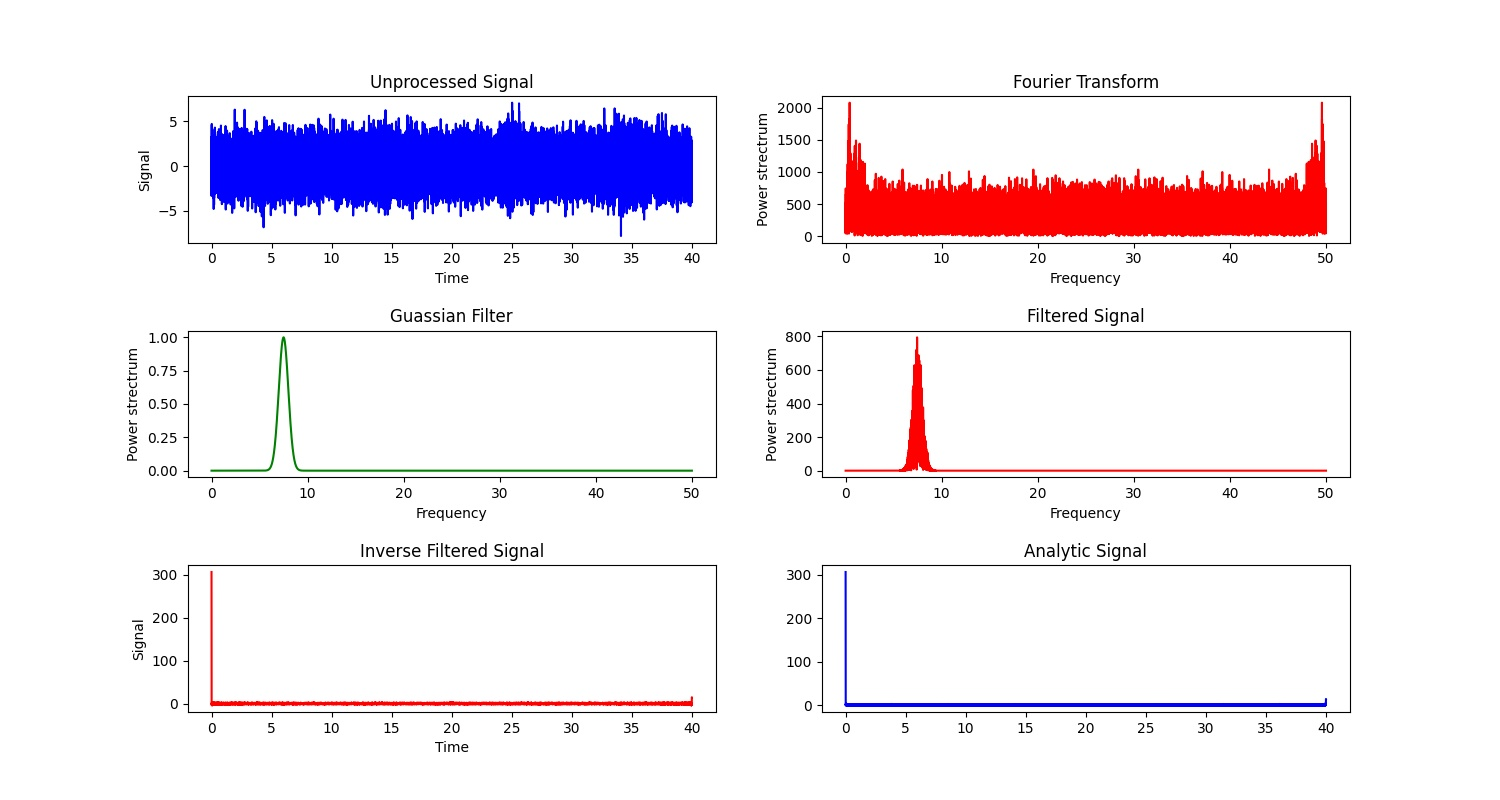
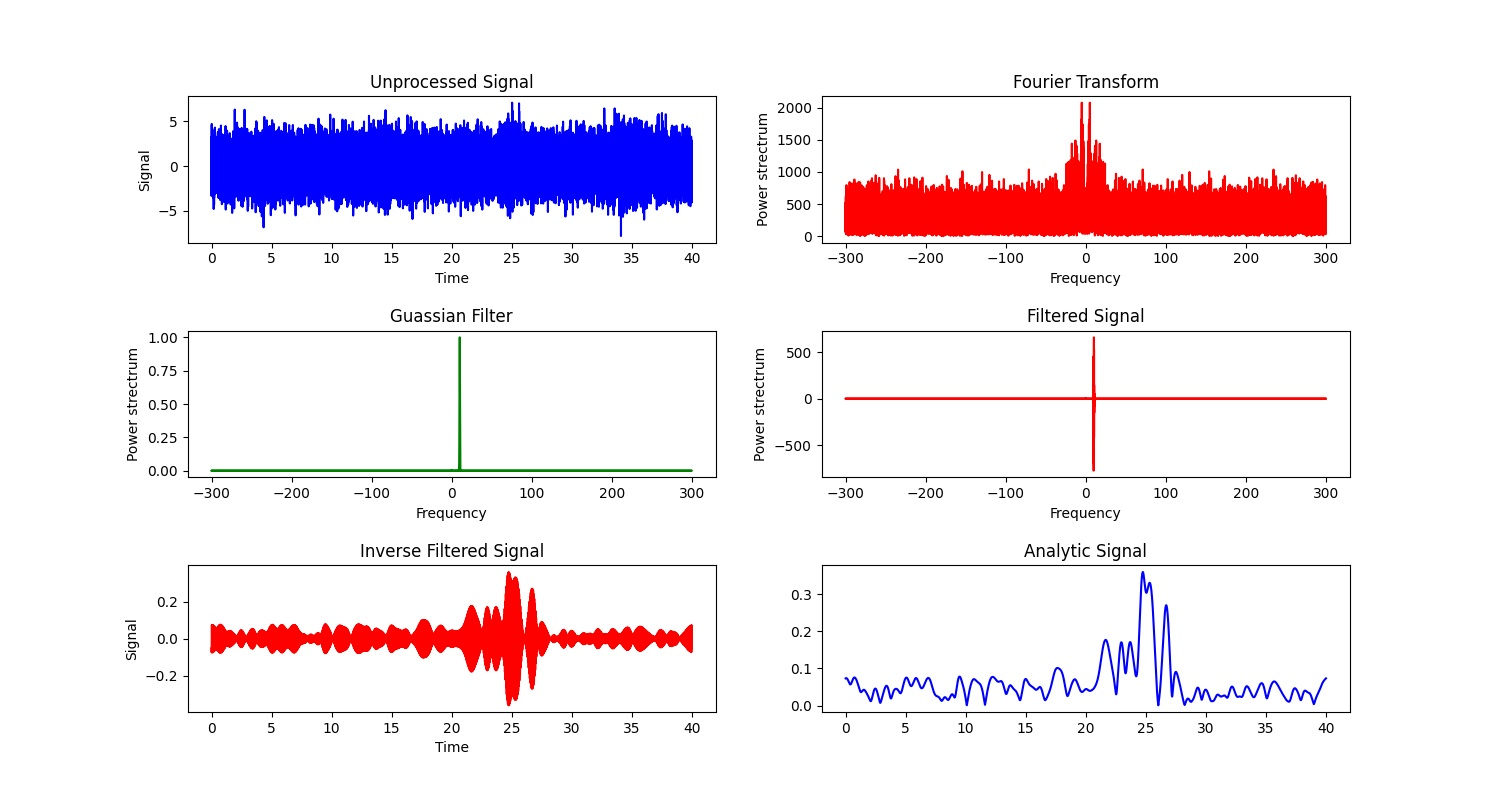
Fixed the Fourier Transfrom using np.fft.fftfreq

diff --git a/Task 3.a.py b/Task 3.a.py
@@ -27,26 +27,31 @@ def freq_filter():
     ax[0, 0].plot(t, signal, 'b-')
 
     # take the fourier transfrom of the signal
-    fft_signal = np.abs(np.fft.fft(signal))
+    fft_signal = np.fft.fft(signal)
     
     # plot the fouier transfrom against 50hz of frequency
-    freq = np.linspace(0, 50, n)
-    ax[0, 1].plot(freq, fft_signal, 'r-')
+    #freq = np.linspace(0, 50, n)
+    sample_rate = 600
+    sample_interval = 1 / sample_rate
+    freq = np.fft.fftfreq(np.size(fft_signal), sample_interval)
+    ax[0, 1].plot(freq, np.abs(fft_signal), 'r-')
 
     #------------------------------------------------------------------------
     #--------------------- Frequency Filter ---------------------
     #------------------------------------------------------------------------
 
     # create a guassian function
-    x = t
-    mu_1 = 6
+    x = freq
+    #mu_1 = 5 for 0-10s
+    mu_1 = 10
     mu_2 = 10
-    sig = 0.4 # sigma regluates the half width full maximum nik says <3 <3
+    sig = 0.3 # sigma regluates the half width full maximum nik says <3 <3
     guassian = np.exp(-np.power(x - mu_1, 2.) / (2 * np.power(sig, 2.)))
     #guassian = np.exp(-np.power(x - mu_1, 2.) / (2 * np.power(sig, 2.))) + np.exp(-np.power(x - mu_2, 2.) / (2 * np.power(sig, 2.)))
 
     # plot the guassian onto a subplot (could plot the gusssian function onto the fliter signal)
     ax[1, 0].plot(freq, guassian, 'g-')
+    #ax[1, 0].set_xlim([mu_1 - sig, mu_1 + sig])
 
     # apply the frequency filter to the fourier transfromed signal
     filtered_signal = guassian * fft_signal
@@ -57,11 +62,10 @@ def freq_filter():
     #--------------------- Inverse Frequency Filter ---------------------
     #------------------------------------------------------------------------
     
-    #inverse_filtered_signal = np.fft.ifft(filtered_signal)
-    inverse_filtered_signal = np.fft.ifft(fft_signal)
-    t_inverse = t = np.linspace(0, 40, n)
+    inverse_filtered_signal = np.fft.ifft(filtered_signal)
+    #inverse_filtered_signal = np.fft.ifft(fft_signal)
     
-    ax[2, 0].plot(t_inverse, inverse_filtered_signal, 'r-')
+    ax[2, 0].plot(t, inverse_filtered_signal, 'r-')
 
     #------------------------------------------------------------------------
     #--------------------- Hilbert Method ---------------------
@@ -130,19 +134,57 @@ def test_fft():
     k = np.arange(n)
     T = n / sample_rate
     frq = k / T
-    freq = frq[int(n/2):n]
+    #freq = frq[int(n/2):n]
+    #freq = frq
+    freq = np.fft.fftfreq(n, sample_interval)
 
-    fft_signal = np.imag(np.fft.fft(signal)) / n
+    fft_signal = np.fft.fft(signal) / n
     #freq = np.linspace(0, 1, np.size(fft_signal))
     #freq = np.linspace(0, 1, )
 
     plt.figure()
-    plt.plot(freq, fft_signal[int(n/2):n])
+    #plt.plot(freq, fft_signal[int(n/2):n])
+    plt.plot(freq, fft_signal)
     plt.show()
 
     pass
 
-#freq_filter()
-test_fft()
+def example_code():
+    #fs is sampling frequency
+    fs = 100.0
+    time = np.linspace(0,10,int(10*fs),endpoint=False)
+
+    #wave is the sum of sine wave(1Hz) and cosine wave(10 Hz)
+    wave = np.sin(np.pi*time)+ np.cos(np.pi*time)
+    #wave = np.exp(2j * np.pi * time )
+
+    # Compute the one-dimensional discrete Fourier Transform.
+
+    fft_wave = np.fft.fft(wave)
+
+    # Compute the Discrete Fourier Transform sample frequencies.
+
+    fft_fre = np.fft.fftfreq(n=wave.size, d=1/fs)
+
+    plt.subplot(211)
+    plt.plot(fft_fre, fft_wave.real, label="Real part")
+    plt.xlim(-50,50)
+    plt.ylim(-600,600)
+    plt.legend(loc=1)
+    plt.title("FFT in Frequency Domain")
+
+    plt.subplot(212)
+    plt.plot(fft_fre, fft_wave.imag,label="Imaginary part")
+    plt.legend(loc=1)
+    plt.xlim(-50,50)
+    plt.ylim(-600,600)
+    plt.xlabel("frequency (Hz)")
+
+    plt.show()
+    pass
+
+freq_filter()
+#test_fft()
+#example_code()
 #freq_filter_10_sec()
 #hilbert_signal()

diff --git a/Task 4.py b/Task 4.py
@@ -5,6 +5,7 @@ import sys
 import astropy as ast # module doesn't work, use link below
 
 # https://github.com/conda/conda/issues/11982
+# reinstall conda
 
 def acquire_image():
     pass
